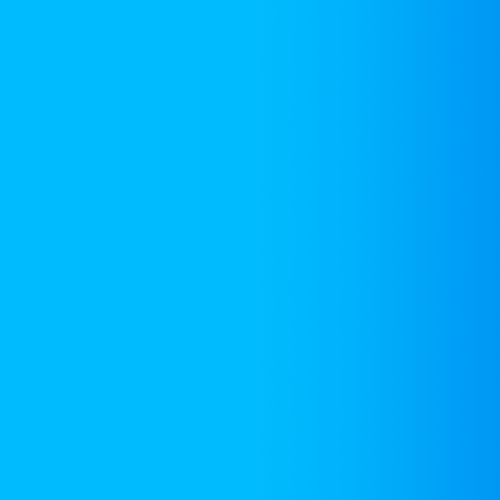
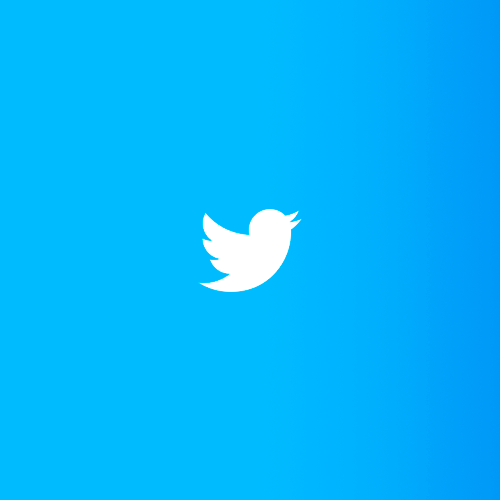
Nuevo diseño de seccion proyects terminado

Changed region(s): [[0.39, 0.42, 0.6, 0.6]]

diff --git a/src/components/Proyects.jsx b/src/components/Proyects.jsx
@@ -7,12 +7,8 @@ export function Proyects() {
     const { t } = useLanguage('global');
     const [expandedIndex, setExpandedIndex] = useState(null)
 
-    const handleMouseOver = (index) => {
-        setExpandedIndex(index)
-    }
-
-    const handleMouseOut = (index) => {
-        setExpandedIndex(-1)
+    const handleClick = (id) => {
+        setExpandedIndex(id === expandedIndex ? -1 : id)
     }
 
     const cardVariants = {
@@ -22,7 +18,7 @@ export function Proyects() {
         },
         collapsed: {
             width: window.innerWidth > 880 ? "350px" : "260px",
-            opacity: 0.5
+            opacity: 0.8
         }
     }
 
@@ -31,9 +27,9 @@ export function Proyects() {
             <div className="flex justify-center mb-16">
                 <div>
                     <div className="flex flex-col items-center h-full gap-5 px-2 md:flex-row">
-                        {ProyectsData.map(({ id, title, imageUrl, description, skills }) => (
+                        {ProyectsData.map(({ id, title, coverImage, appImage, description, skills, url }) => (
                             <motion.div key={id}
-                                className={`cursor-pointer h-[400px] bg-auto bg-no-repeat bg-center rounded-[20px] mx-2 ${id === expandedIndex && 'expanded'}`}
+                                className={`cursor-pointer h-[400px] bg-cover bg-no-repeat bg-center rounded-[20px] mx-2 shadow-md shadow-slate-400 ${id === expandedIndex && 'expanded'}`}
                                 initial={{ opacity: 1 }}
                                 variants={cardVariants}
                                 animate={id === expandedIndex ? 'expanded' : 'collapsed'}
@@ -41,18 +37,27 @@ export function Proyects() {
                                     opacity: 1
                                 }}
                                 transition={{ duration: 0.5 }}
-                                onMouseOver={() => handleMouseOver(id)}
-                                onMouseOut={() => handleMouseOut(id)}
+                                onClick={()=>{handleClick(id)}}
                                 style={{
-                                    backgroundImage: `url(${imageUrl})`
+                                    backgroundImage: `url(${id === expandedIndex ? appImage : coverImage})`
                                 }}
                             >
-                                <div className="flex flex-col justify-end h-full">
+                                <div className={`flex flex-col ${id === expandedIndex && url !== '' ? 'justify-between' : 'justify-end'} h-full`}>
+                                    {id === expandedIndex && url !== '' && (
+                                        <>
+                                        <div className=' flex justify-center mt-32'>
+                                            <a href={url} target='_blank'
+                                                className='text-white font-normal select-none text-xl bg-gray-800 bg-opacity-75 font-kanit rounded-full px-5 py-3 hover:shadow-lg hover:shadow-white transition-all'>
+                                                {t('projects.visitWeb')}
+                                            </a>
+                                        </div>
+                                        </>
+                                    )}
                                     <div className="card-footer rounded-b-[20px] bg-gray-800 bg-opacity-75 min-h-[100px] flex flex-col items-center justify-center p-3">
-                                        <h2 className="font-kanit text-xl font-semibold text-center text-white">{title}</h2>
+                                        <h2 className="font-kanit text-xl font-semibold text-center text-white select-none">{title}</h2>
                                         {id === expandedIndex && (
                                             <>
-                                                <p className='text-white font-kanit font-extralight text-lg'>{t(description)}</p>
+                                                <p className='text-white font-kanit font-extralight text-lg select-none'>{t(description)}</p>
                                                 <div className="flex gap-5 mt-3">
                                                     {skills.map((data, index) => (
                                                         <p key={index}>{data.icon}</p>

diff --git a/src/utils/ProyectsData.jsx b/src/utils/ProyectsData.jsx
@@ -4,9 +4,10 @@ export const ProyectsData = [
   {
     id: 0,
     title: "Twitter Clone",
-    description:
-      "projects.twitter",
-    imageUrl: "./img/fondotwitter.png",
+    description: "projects.twitter",
+    url:"https://twitterclone-av6b-dev.fl0.io/",
+    coverImage: "./img/fondotwitter.png",
+    appImage: "./img/twitterweb.png",
     skills: [
       {
         icon: <SiReact size="40" />
@@ -22,9 +23,10 @@ export const ProyectsData = [
   {
     id: 1,
     title: "Finance App",
-    description:
-      "projects.financeapp",
-    imageUrl: "./img/fondoPokeapp.png",
+    description: "projects.financeapp",
+    url:"",
+    coverImage: "./img/fondoFinanceapp.png",
+    appImage: "./img/financeappweb.gif",
     skills: [
         {
             icon: <SiReact size="40" />

diff --git a/src/index.css b/src/index.css
@@ -57,11 +57,9 @@
 }
 
 .header{
-    @apply hidden md:flex items-center justify-between fixed w-full bg-red-400
+    @apply hidden md:flex items-center justify-between fixed w-full bg-red-400 bg-opacity-90
     px-5 2xl:px-16;
     height: 100px;
-    /* background-color: var(--bg-light-yellow); */
-    opacity: .9;
     z-index: 999;
 }
 .text-header-mobile{
